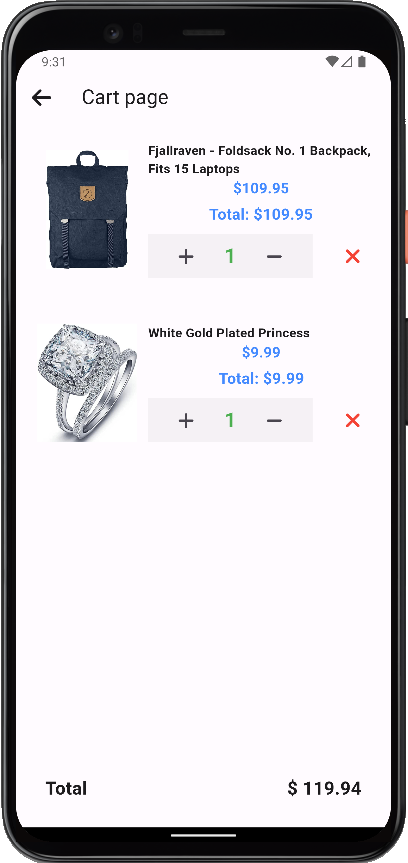
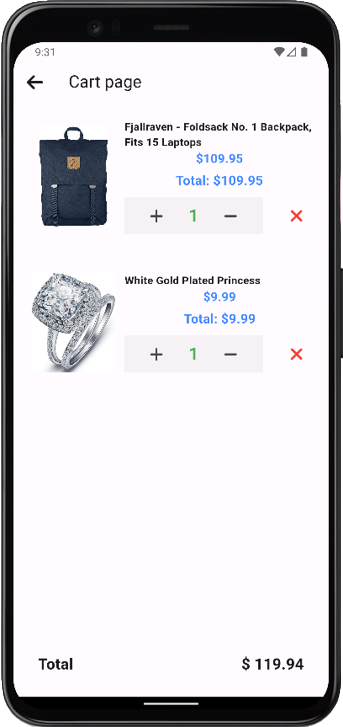
Updated the images and android downloaded path and included the apk for both ios and android

diff --git a/DOCS.md b/DOCS.md
@@ -2,7 +2,8 @@
 
 ## You can download the latest version of the app for Android by clicking the link below:
 
-- [Download Android APK](./build/app-release.apk)
+- [Download Android APK](./ecommerce/build/app/outputs/apk/release/app-x86_64-release.apk)
+- [Download for IOS](./ecommerce/build/app/outputs/apk/release/app-arm64-v8a-release.apk)
 
 # The Screenshots of mobile app:-
 
@@ -15,7 +16,7 @@ In Home page you can view all the products that are fetched from the server. In 
 <br/>
 
 <p align="center">
-  <img src="./screenshots/product_detail.png" alt="Image" width="400" />
+  <img src="./screenshots/product_detail_page.png" alt="Image" width="400" />
 </p>
 
 In Product Detail page you can view more detail about the product and from here you can add the product to your cart. The product that you add will then appears in your cart.
@@ -23,7 +24,7 @@ In Product Detail page you can view more detail about the product and from here 
 <br/>
 
 <p align="center">
-  <img src="./screenshots/cart_page.png.png" alt="Image" width="400" />
+  <img src="./screenshots/cart_page.png" alt="Image" width="400" />
 </p>
 
 In Cart page you can view all the products that you have added in your cart. From here you can remove the product from the cart, increase product count, decrease product count. Also you can see your total price updated based on your product price.
